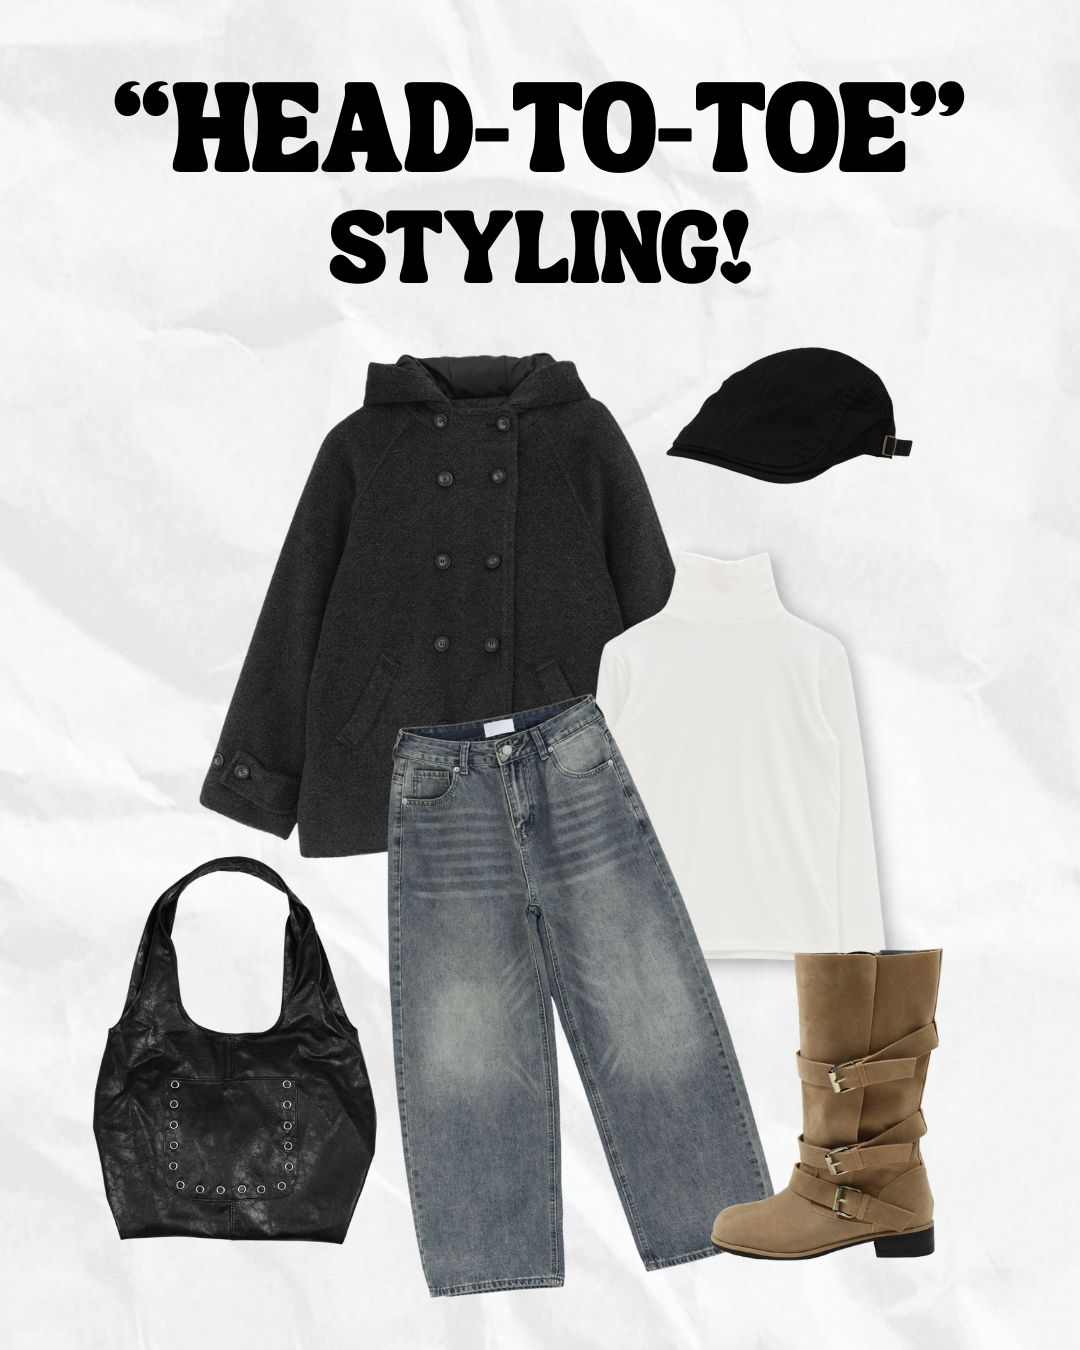
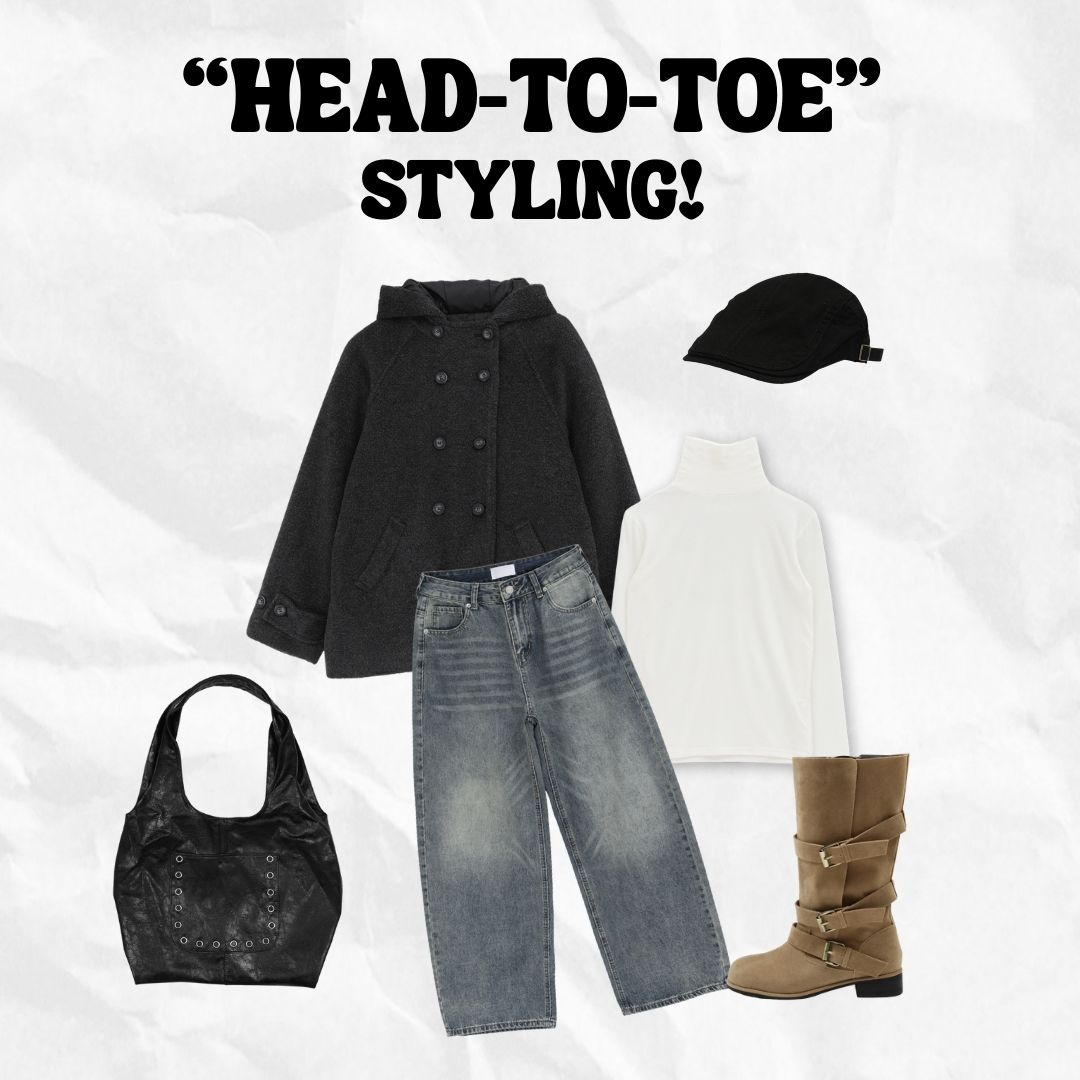
html update

diff --git a/index.html b/index.html
@@ -962,7 +962,7 @@
         <div class="web-project-wrap">
           <h3 class="web-tit">Web Design</h3>
           <div class="web-project-box">
-            <article class="web-project" id="hansamall">
+            <article class="web-project" id="ktm">
               <a href="https://sera0114.github.io/portfolio_ktm/"><img src="./images/web-design/web-design1.png"
                   alt="웹디자인"></a>
 
@@ -970,15 +970,17 @@
                 <h4><a href="https://sera0114.github.io/portfolio_ktm/">KTM 엔듀로</a></h4>
                 <ul class="section4-detail-info">
                   <li>
-                    <span>기간</span>
-                    <p>2025. 04</p>
+                    <span>기획 의도</span>
+                    <p>
+                      브랜드가 가진 역동성과 도전의 이미지를 <br>
+                      정적인 정보 구조가 아닌, <br>
+                      스크롤과 전환을 중심으로 한 인터랙션 흐름으로 재해석했습니다.
+                    </p>
                   </li>
                   <li>
-                    <span>기획 설명</span>
+                    <span>기간</span>
                     <p>
-                      HTML, CSS, jQuery,<br>
-                      Photoshop<br>
-                      Illustrator
+                      2025.04
                     </p>
                   </li>
                 </ul>
@@ -989,7 +991,7 @@
               </div>
             </article>
 
-            <article class="web-project" id="gingerbear">
+            <article class="web-project" id="acc">
               <a href="https://sera0114.github.io/portfolio_acc/#"><img src="./images/web-design/web-design2.png"
                   alt="웹디자인"></a>
 
@@ -998,16 +1000,16 @@
 
                 <ul class="section4-detail-info">
                   <li>
-                    <span>기간</span>
-                    <p>2025. 05</p>
+                    <span>기획 의도</span>
+                    <p>
+                      국립아시아문화전당의 문화적 밀도와 다양성을 <br>
+                      단순한 정보 나열이 아닌, <br>
+                      자연스러운 탐색과 발견이 이어지는 화면 경험으로 풀어냈습니다.
+                    </p>
                   </li>
                   <li>
-                    <span>사용 툴</span>
-                    <p>
-                      HTML, CSS, jQuery,<br>
-                      Photoshop<br>
-                      Illustrator
-                    </p>
+                    <span>기간</span>
+                    <p>2025. 05</p>
                   </li>
                 </ul>
 
@@ -1019,7 +1021,7 @@
           </div>
 
           <div class="web-project-box">
-            <article class="web-project" id="hansamall">
+            <article class="web-project" id="ibk">
               <a href="https://sera0114.github.io/Portfolio_ibk/"><img src="./images/web-design/web-design3.png"
                   alt="웹디자인"></a>
 
@@ -1027,16 +1029,16 @@
                 <h4><a href="https://sera0114.github.io/Portfolio_ibk/">IBK 기업은행</a></h4>
                 <ul class="section4-detail-info">
                   <li>
-                    <span>기간</span>
-                    <p>2025. 04</p>
+                    <span>기획 의도</span>
+                    <p>
+                      IBK기업은행이 제공하는 금융서비스를 <br>
+                      분산된 정보 구조가 아닌, <br>
+                      사용 목적에 따라 안정적으로 탐색할 수 있는 흐름으로 재구성했습니다.
+                    </p>
                   </li>
                   <li>
-                    <span>사용 툴</span>
-                    <p>
-                      HTML, CSS, jQuery,<br>
-                      Photoshop<br>
-                      Illustrator
-                    </p>
+                    <span>기간</span>
+                    <p>2025.07</p>
                   </li>
                 </ul>
 
@@ -1046,7 +1048,7 @@
               </div>
             </article>
 
-            <article class="web-project" id="gingerbear">
+            <article class="web-project" id="wedding">
               <a href="https://sera0114.github.io/portfolio_weddingstudio/"><img src="./images/web-design/web-design4.jpg" alt="웹디자인"></a>
 
               <div>
@@ -1054,16 +1056,16 @@
 
                 <ul class="section4-detail-info">
                   <li>
-                    <span>기간</span>
-                    <p>2025. 05</p>
+                    <span>기획 의도</span>
+                    <p>
+                      스튜디오, 드레스, 헤어가 하나의 경험으로 느껴질 수 있도록 <br>
+                      각 요소를 분리하지 않고, <br>
+                      통합된 웨딩 스토리 흐름으로 화면을 구성했습니다.
+                    </p>
                   </li>
                   <li>
-                    <span>사용 툴</span>
-                    <p>
-                      HTML, CSS, jQuery,<br>
-                      Photoshop<br>
-                      Illustrator
-                    </p>
+                    <span>기간</span>
+                    <p>2025. 08</p>
                   </li>
                 </ul>
 
@@ -1131,51 +1133,51 @@
           <ul class="listBox">
             <li data-color="a">
               <p class="img"><img src="./images/graphic-design/graphic-design (1).jpg" alt=""></p>
-              <h4><span class="a">Title</span><span class="b">2024</span></h4>
+              <h4><span class="a">스마트스토어</span><span class="b">2023</span></h4>
             </li>
             <li data-color="b">
               <p class="img"><img src="./images/graphic-design/graphic-design (2).jpg" alt=""></p>
-              <h4><span class="a">Title</span><span class="b">2024</span></h4>
+              <h4><span class="a">스마트스토어</span><span class="b">2023</span></h4>
             </li>
             <li data-color="c">
-              <p class="img"><img src="./images/graphic-design/graphic-design (3).jpg" alt=""></p>
-              <h4><span class="a">Title</span><span class="b">2024</span></h4>
+              <p class="img"><img src="./images/graphic-design/graphic-design (5).jpg" alt=""></p>
+              <h4><span class="a">스마트스토어</span><span class="b">2022</span></h4>
             </li>
             <li data-color="d">
               <p class="img"><img src="./images/graphic-design/graphic-design (11).jpg" alt=""></p>
-              <h4><span class="a">Title</span><span class="b">2024</span></h4>
+              <h4><span class="a">스마트스토어</span><span class="b">2024</span></h4>
             </li>
             <li data-color="e">
-              <p class="img"><img src="./images/graphic-design/graphic-design (5).jpg" alt=""></p>
-              <h4><span class="a">Title</span><span class="b">2024</span></h4>
+              <p class="img"><img src="./images/graphic-design/graphic-design (6).jpg" alt=""></p>
+              <h4><span class="a">스마트스토어</span><span class="b">2024</span></h4>
             </li>
             <li data-color="a">
-              <p class="img"><img src="./images/graphic-design/graphic-design (6).jpg" alt=""></p>
-              <h4><span class="a">Title</span><span class="b">2024</span></h4>
+              <p class="img"><img src="./images/graphic-design/graphic-design (3).jpg" alt=""></p>
+              <h4><span class="a">스마트스토어</span><span class="b">2024</span></h4>
             </li>
             <li data-color="b">
               <p class="img"><img src="./images/graphic-design/graphic-design (7).png" alt=""></p>
-              <h4><span class="a">Title</span><span class="b">2024</span></h4>
+              <h4><span class="a">스마트스토어</span><span class="b">2024</span></h4>
             </li>
             <li data-color="c">
               <p class="img"><img src="./images/graphic-design/graphic-design (8).png" alt=""></p>
-              <h4><span class="a">Title</span><span class="b">2024</span></h4>
+              <h4><span class="a">스마트스토어</span><span class="b">2023</span></h4>
             </li>
             <li data-color="d">
-              <p class="img"><img src="./images/graphic-design/graphic-design (10).png" alt=""></p>
-              <h4><span class="a">Title</span><span class="b">2024</span></h4>
+              <p class="img"><img src="./images/graphic-design/graphic-design (10).jpg" alt=""></p>
+              <h4><span class="a">프리랜서 외주</span><span class="b">2025</span></h4>
             </li>
             <li data-color="d">
               <p class="img"><img src="./images/graphic-design/graphic-design (4).jpg" alt=""></p>
-              <h4><span class="a">Title</span><span class="b">2024</span></h4>
+              <h4><span class="a">스마트스토어</span><span class="b">2024</span></h4>
             </li>
             <li data-color="d">
               <p class="img"><img src="./images/graphic-design/graphic-design (13).jpeg" alt=""></p>
-              <h4><span class="a">Title</span><span class="b">2024</span></h4>
+              <h4><span class="a">더줌스튜디오 명함</span><span class="b">2019</span></h4>
             </li>
             <li data-color="d">
-              <p class="img"><img src="./images/graphic-design/graphic-design (12).png" alt=""></p>
-              <h4><span class="a">Title</span><span class="b">2024</span></h4>
+              <p class="img"><img src="./images/graphic-design/graphic-design (12).jpg" alt=""></p>
+              <h4><span class="a">프리랜서 외주</span><span class="b">2025</span></h4>
             </li>
           </ul>
         </div>

diff --git a/aboutMe.html b/aboutMe.html
@@ -557,9 +557,8 @@
                     <div class="ps-body">
                       <h3>과정을 통해 단단해진 사람</h3>
                       <p>
-                        ‘최고보다는 최선을 다하자 ’라는 가훈 아래에서 자라며, 결과보다 과정에 책임을 지는 태도와 꾸준함의 가치를 자연스럽게 체득했습니다.
-                        하위권 성적에서 출발했던 고등학교 시절, 학습 방법을 스스로 점검하고 반복 학습을 이어가며 중상위권까지 성적을 끌어올려 <span>학력 우수상</span>을 받은 경험을
-                        통해
+                        '최고보다는 최선을 다하는 사람이 되자'라는 가훈 아래에서 자라며, 과정에 책임지는 태도와 꾸준함의 가치를 자연스럽게 배웠습니다.
+                        하위권 성적에서 출발했던 고등학교 시절, 학습 방법을 스스로 점검하고 반복 학습을 이어가며 중상위권까지 성적을 끌어올려 <span>학력 우수상</span>을 받은 경험을 통해
                         단기간의 성과보다 방향을 잡고 <b>지속적으로 개선하는 태도</b>가 결국 결과로 이어진다는 것을 배웠습니다.
                         또한 군인을 목표로 훈련 받는 과정에서 공동의 목표를 위해 각자의 역할을 수행하며, <b>개인의 성과가 팀 전체의 성과</b>로 연결된다는 점을 몸소 경험했습니다.
                         이러한 경험은 이후 디자인 작업에서도 개인 작업에 그치지 않고, 내 결과물이 팀과 프로젝트 전반에 미치는 영향을 고려하며 책임감 있게 임하는 태도의 기반이 되었습니다.
@@ -584,12 +583,13 @@
                   <section class="ps-block">
                     <div class="ps-label"><span>특기사항</span></div>
                     <div class="ps-body">
-                      <h3>함께 일할수록 신뢰받는 사람</h3>
+                      <h3>끝까지 책임지는 사람</h3>
                       <p>
-                        저는 함께 일할수록 <b>신뢰가 쌓이는 사람</b>입니다. 맡은 역할을 끝까지 책임지며, 정해진 기준과 약속을 지키는 태도를 중요하게 생각합니다.
-                        말보다 행동으로 증명하는 편으로, 반복되는 작업이나 보이지 않는 과정에서도 흔들림 없이 임하려 노력해왔습니다.
-                        이러한 태도는 팀 내에서 자연스럽게 믿고 맡길 수 있는 역할로 이어졌고, 시간이 지날수록 주변의 신뢰와 의지로 돌아왔습니다.
-                        단기적인 성과보다, 함께 일하는 사람들이 안심하고 <b>다음 일을 맡길 수 있는 사람</b>이 되는 것을 저만의 강점으로 삼고 있습니다.
+                        저는 맡은 업무를 끝까지 완수하기 위해 <b>기록과 반복 점검을 습관화</b>해온 사람입니다.
+                        미용실 근무 당시, 바쁜 현장 속에서 생기는 실수와 비효율은 개인 역량보다 정리되지 않은 과정에서 비롯된다고 느꼈습니다.
+                        이에 항상 작은 수첩을 지니며 새로 배우는 시술 과정과 개선이 필요한 부분, 담당 디자이너의 동선과 제스처를 기록했고,
+                        퇴근 후 반복적으로 확인하며 업무 이해도를 높였습니다.
+                        그 결과 빠르게 손발을 맞추며 실수를 줄일 수 있었고, 이러한 방식은 이후 디자인과 기획 작업에서도 <b>작업 흐름을 정리하고 완성도를 높이는 기준</b>이 되었습니다.
                       </p>
                     </div>
                   </section>
@@ -1658,7 +1658,7 @@
                 <span class="fotter-subText">Design & Direction by SE:RA</span>
               </p>
               <div class="btnBox">
-                <a href="/" target="_blank" class="btn">PortFolio</a>
+                <a  href="https://www.notion.so/SE-RA-Portfolio-2efc86c58afd801c8df7d680fd434d8c?source=copy_link"  class="btn"  onclick="window.open(this.href,'_blank','noopener,noreferrer'); return false;">PortFolio</a>
                 <a href="#" class="btn tooltip-wrap" id="target">010-3362-4745 →
                   <div class="tooltip">
                     여기까지 읽어주셔서 <strong>감사합니다</strong>

diff --git a/css/style.css b/css/style.css
@@ -843,7 +843,6 @@ body:has([data-cursor]:hover) .cursor, body:has([data-image]:hover) .cursor { op
 #section4 .subTextBox .subText span {background: rgb(0 0 0 / 15%); padding: 0 3px 0 2px; margin: 0 2px;}
 #section4 .subTextBox .subText p{margin-bottom: 3rem;}
 
-
 /* 흐르는 글씨 박스 */
 #section4 .marquee-container {
   position: absolute;
@@ -917,7 +916,7 @@ body:has([data-cursor]:hover) .cursor, body:has([data-image]:hover) .cursor { op
   animation: fadeInDown 1s ease-out 0.3s forwards;
 }
 
-/* 한샘몰,진저베어썸네일 감사는 a태그 */
+/* 웹디자인섹션 작업물 썸네일 감사는 a태그 */
 #section4 .web-project>a {
   display: block;
   border-radius: 30px;
@@ -940,7 +939,7 @@ body:has([data-cursor]:hover) .cursor, body:has([data-image]:hover) .cursor { op
   position: relative;
 }
 
-/* 샘몰, 진저베어 제목 */
+/* 웹디자인섹션 작업물 제목 */
 #section4 h4 {
   font-size: 2.25rem;
   font-weight: 600;
@@ -950,7 +949,7 @@ body:has([data-cursor]:hover) .cursor, body:has([data-image]:hover) .cursor { op
   transition: all 0.4s ease;
 }
 
-/* 샘몰, 진저베어 제목 호버 효과 */
+/* 웹디자인섹션 작업물 호버 효과 */
 #section4 h4::after {
   content: "";
   position: absolute;
@@ -971,7 +970,7 @@ body:has([data-cursor]:hover) .cursor, body:has([data-image]:hover) .cursor { op
   width: 100%;
 }
 
-/*Project-Detail-box-한샘몰 밑 글씨*/
+/*Project-Detail-box-웹디자인섹션 작업물 밑 글씨*/
 #section4 .web-project>div>ul {
   display: flex; justify-content: space-between;
   column-gap: 90px;
